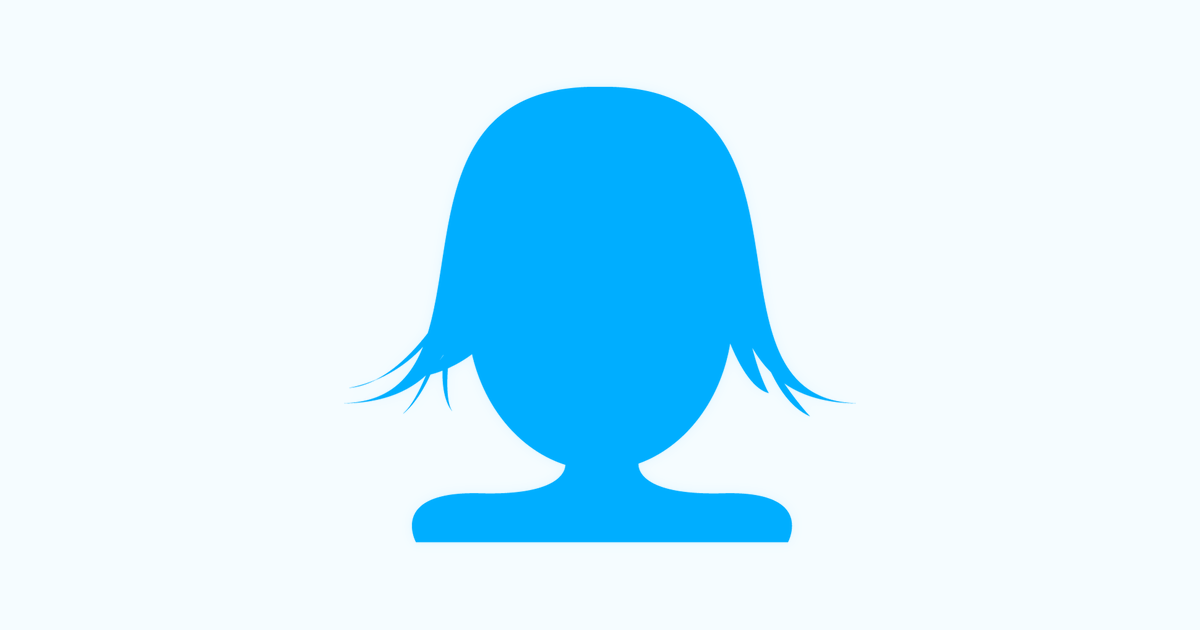
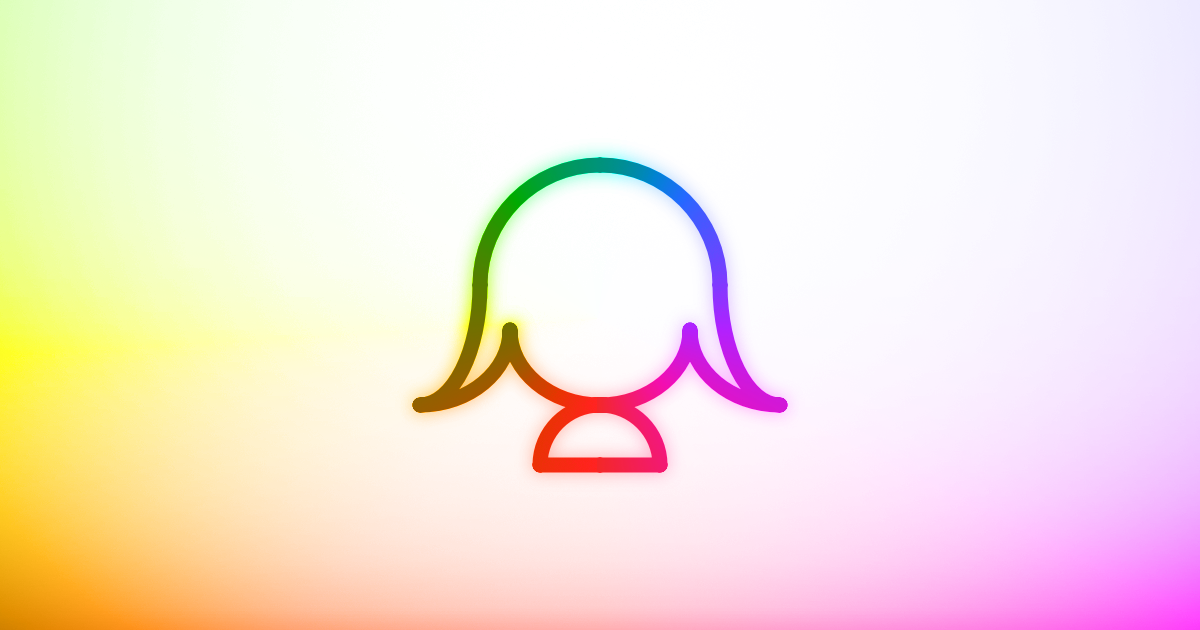
new branding

diff --git a/pages/_document.js b/pages/_document.js
@@ -13,6 +13,7 @@ class MyDocument extends Document {
         <Head>
           <link rel='apple-touch-icon' href='/static/apple-touch-icon.png' />
           <link rel='icon' href='/static/favicon.ico' />
+          <link rel='mask-icon' sizes='any' href='/static/mask-icon.svg' color='#00d6ff' />
           <meta charSet='utf-8' />
           <meta name='keywords' content='melkat, melanie, kat, link, blog, bookmarks' />
           <meta name='viewport' content='initial-scale=1.0, width=device-width' />
